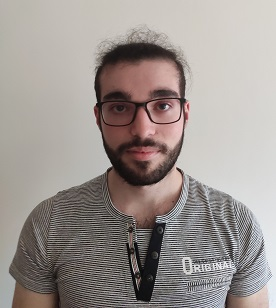
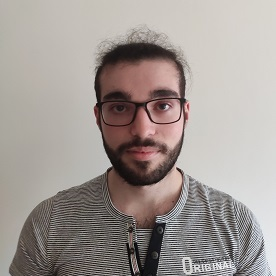
Add files via upload

diff --git a/index.html b/index.html
@@ -3,12 +3,13 @@
     <head>
         <meta charset="UTF-8">
         <title>Diego's Personal Site</title>
+        <link rel="stylesheet" href="css/styles.css">
     </head>
     <body>
         <table cellspacing="20">
             <tbody>
                 <tr>
-                    <td><img src="images/Diego.jpg" alt="Diego profile picture"></td>
+                    <td><img id="profile" src="images/Diego.jpg" alt="Diego profile picture"></td>
                     <td> <h1>Diego Vidal</h1>
                         <p><em>Network computer systems administration <strong>student</strong>.</em></p>
                         <p>I am 19 years. I like beers.</p></td>

diff --git a/css/styles.css b/css/styles.css
@@ -1,0 +1,20 @@
+body{
+    background-color: #eaf6f6;
+}
+
+#profile{
+    height: 170px;
+    border-radius: 100%;
+}
+h1{
+    color: #66bfbf;
+}
+h3{
+    color: #66bfbf;
+}
+hr{
+    background-color: black;
+    border: none;
+    height: 1px;
+    width: 97%;
+}

diff --git a/contact-me.html b/contact-me.html
@@ -3,6 +3,7 @@
 <head>
     <meta charset="UTF-8">
     <title>Contact Me</title>
+    <link rel="stylesheet" href="css/styles.css">
 </head>
 <body>
     <h1>My contact deatails</h1>

diff --git a/hobbies.html b/hobbies.html
@@ -3,6 +3,7 @@
 <head>
     <meta charset="UTF-8">
     <title>My Hobbies</title>
+    <link rel="stylesheet" href="css/styles.css">
 </head>
 <body>
     <h3>My Hobbies</h3>
